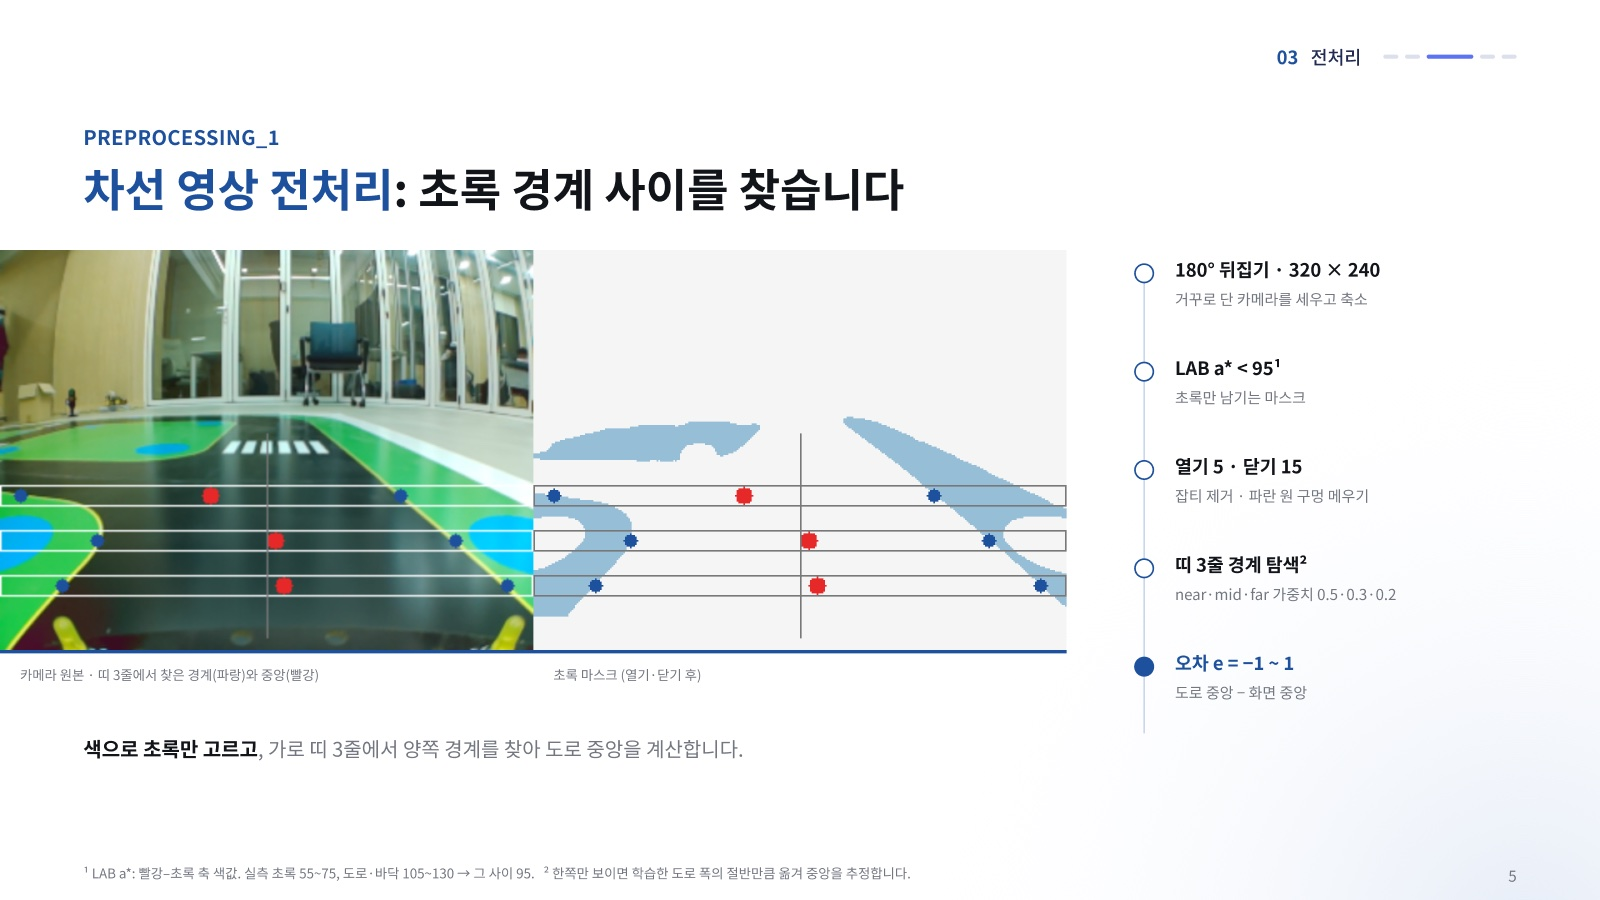
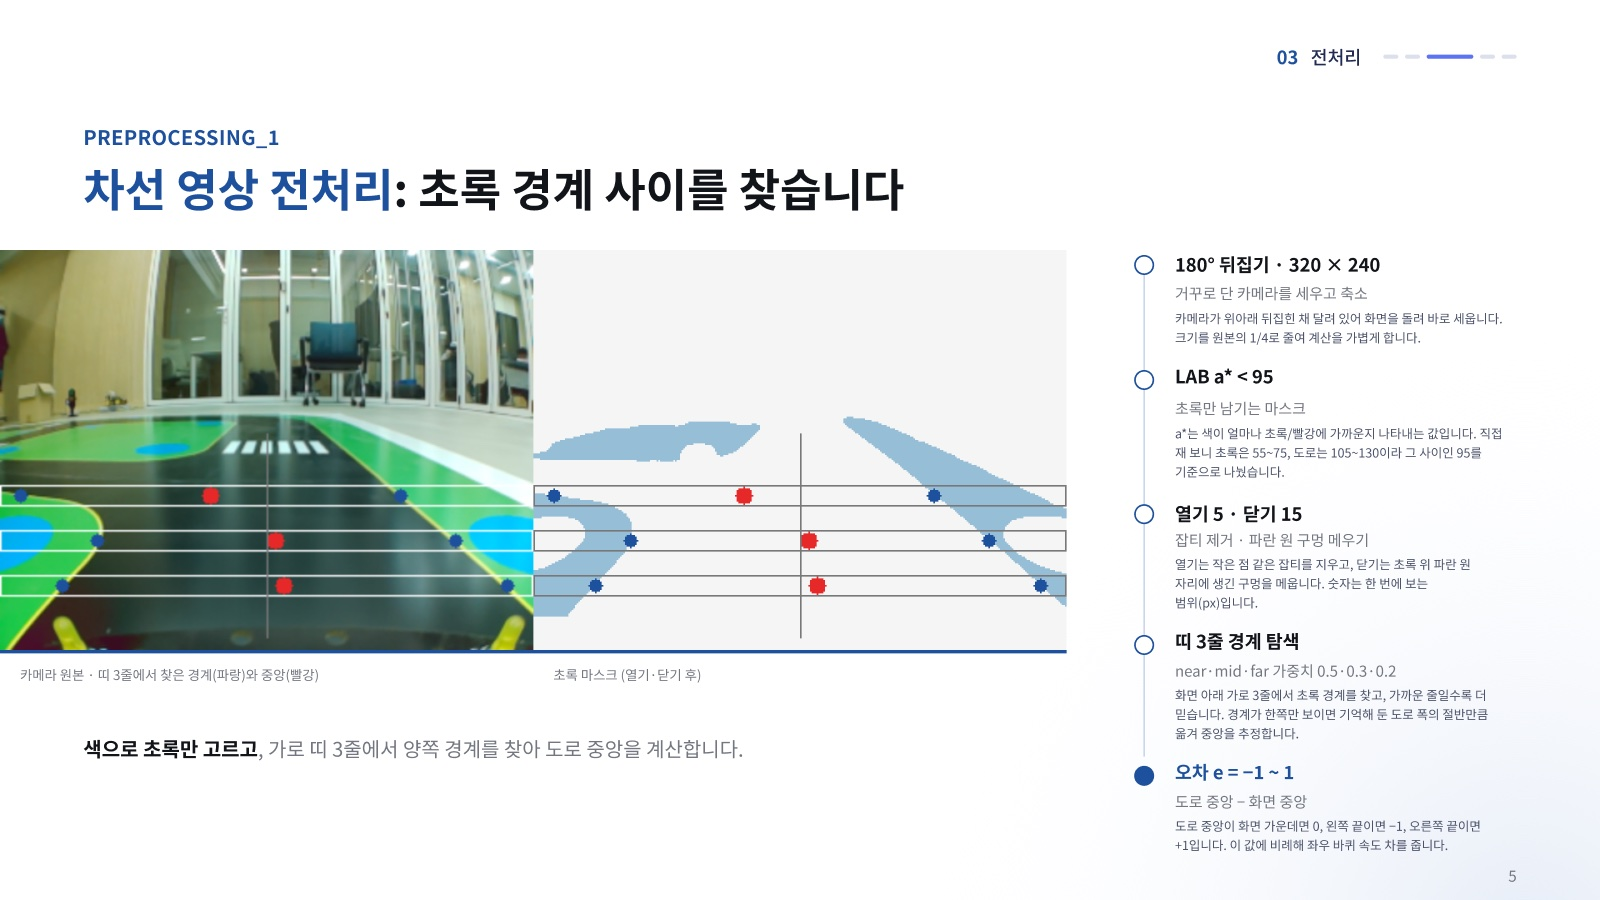
Drop duplicate-image problem from docs; refresh slides 5 and 6

Changed region(s): [[0.6875, 0.28, 0.9375, 0.9644], [0.0625, 0.9644, 0.5625, 0.9956]]

diff --git a/sign/clean_dataset.py b/sign/clean_dataset.py
@@ -1,7 +1,7 @@
 """yolo_dataset 정리: 중복 제거, 라벨 없는 이미지 분리, 연속 프레임 블록 단위로 train/val 재분할.
 
 원본 문제
-- val 이미지 대부분이 train 이미지와 바이트 단위로 같음 → val mAP가 의미 없음
+- 같은 이미지가 train/val 양쪽에 들어가면 val mAP가 부풀려짐 → 내용(md5)이 같은 파일은 하나만 남김
 - 표지판이 찍혀 있는데 라벨 파일이 없는 이미지 → 그대로 학습하면 배경으로 학습됨
 - 파일 이름이 {class}_{frame}.jpg 라서 이웃 프레임이 train/val에 섞임
 

diff --git a/README.md b/README.md
@@ -45,11 +45,11 @@ Raspberry Pi 5 한 대로 트랙을 스스로 달리고, 표지판과 신호를 
 
 ### 03 전처리
 - **차선:** 카메라 영상에서 초록 경계만 남기고, 가로 띠 3줄에서 양쪽 경계를 찾아 도로 중앙을 계산합니다.
-- **표지판 데이터:** 학습 전에 데이터 문제 네 가지(중복, 라벨 누락, 연속 프레임 섞임, right 부족)를 고쳤습니다.
+- **표지판 데이터:** 학습 전에 데이터 문제 세 가지(라벨 누락, 연속 프레임 섞임, right 부족)를 고쳤습니다.
 
 ![차선 전처리](docs/slides/05.jpg)
 
-- **초록 경계 찾기:** LAB 색공간의 a* 값이 95보다 작은 픽셀(초록)만 남깁니다.
+- **초록 경계 찾기:** a*는 색이 얼마나 초록/빨강에 가까운지 나타내는 값입니다. 실측 초록 55~75, 도로 105~130이라 그 사이인 95보다 작은 픽셀(초록)만 남깁니다.
 - **잡티 정리:** 열기·닫기 연산으로 작은 잡티를 지웁니다.
 - **도로 중앙 계산:** 가까운·중간·먼 띠 3줄에서 양쪽 경계를 찾고, 가중치 0.5·0.3·0.2로 평균해 도로 중앙을 정합니다.
 - **한쪽만 보일 때:** 띠마다 기억해 둔 평소 도로 폭으로 반대쪽 경계를 추정합니다.
@@ -58,10 +58,9 @@ Raspberry Pi 5 한 대로 트랙을 스스로 달리고, 표지판과 신호를 
 
 | 문제 | 해결 | 확인 결과 |
 |---|---|---|
-| 1. 시험용(val) 이미지 80%가 학습용(train)과 똑같음 | 파일 내용 지문(md5)으로 중복 제거 | 지금 train과 val에 겹치는 이미지 0장 |
-| 2. 표지판이 보이는데 라벨이 없는 이미지 187장 | 1차 모델이 박스를 미리 그리고, 헷갈리는 72장은 사람이 검수 | 182장에 라벨을 달아 다시 넣었고, 5장은 표지판 없음으로 판단 |
-| 3. 이웃 프레임이 train과 val에 섞임 | 같은 클래스의 연속 40장을 한 묶음으로 보고, 묶음째 나눔 | val과 거의 같은 train 이미지 0장 |
-| 4. right 표지판이 적음 | left 153장을 좌우로 뒤집어 right로 합성(train에만) | train의 right 박스 42 → 195개, val은 실제 사진만 사용 |
+| 1. 표지판이 보이는데 라벨이 없는 이미지 187장 | 1차 모델이 박스를 미리 그리고, 헷갈리는 72장은 사람이 검수 | 182장에 라벨을 달아 다시 넣었고, 5장은 표지판 없음으로 판단 |
+| 2. 이웃 프레임이 train과 val에 섞임 | 같은 클래스의 연속 40장을 한 묶음으로 보고, 묶음째 나눔 | val과 거의 같은 train 이미지 0장 |
+| 3. right 표지판이 적음 | left 153장을 좌우로 뒤집어 right로 합성(train에만) | train의 right 박스 42 → 195개, val은 실제 사진만 사용 |
 
 ![데이터셋](docs/slides/07.jpg)
 

diff --git a/docs/data-report.md b/docs/data-report.md
@@ -31,18 +31,17 @@
 
 | # | 문제 | 수치 | 영향 |
 |---|---|---|---|
-| 1 | **val 이미지가 train 이미지와 바이트 단위로 같음** | val 531장 중 **427장 (80%)** | val mAP가 부풀려짐. 이 데이터로 낸 mAP 0.95 같은 숫자는 믿을 수 없다 |
-| 2 | **표지판이 찍혀 있는데 라벨 파일이 없는 이미지** | train 185장 (red_light 42, horn 40, red_line 37, left 35, speed_20 26 …) | YOLO가 이 이미지를 "객체 없음"으로 학습해서 실제 표지판을 억누른다 |
-| 3 | 이미지 없는 라벨 | 32개 (`left_0192` 등) | 무시됨, 정리 필요 |
-| 4 | 파일 이름이 `{class}_{frame}` 연속 번호 | — | 무작위로 나누면 이웃 프레임이 train/val에 섞인다 |
-| 5 | **right 클래스 부족** | 박스 79개 (crosswalk 1201개) | left/right 혼동 위험이 가장 큰데 데이터는 가장 적다 |
-| 6 | crosswalk 과다 | 전체 박스의 약 45% | 다른 클래스보다 손실을 지배할 수 있다 |
+| 1 | **표지판이 찍혀 있는데 라벨 파일이 없는 이미지** | train 185장 (red_light 42, horn 40, red_line 37, left 35, speed_20 26 …) | YOLO가 이 이미지를 "객체 없음"으로 학습해서 실제 표지판을 억누른다 |
+| 2 | 이미지 없는 라벨 | 32개 (`left_0192` 등) | 무시됨, 정리 필요 |
+| 3 | 파일 이름이 `{class}_{frame}` 연속 번호 | — | 무작위로 나누면 이웃 프레임이 train/val에 섞인다 |
+| 4 | **right 클래스 부족** | 박스 79개 (crosswalk 1201개) | left/right 혼동 위험이 가장 큰데 데이터는 가장 적다 |
+| 5 | crosswalk 과다 | 전체 박스의 약 45% | 다른 클래스보다 손실을 지배할 수 있다 |
 
 박스 크기 중앙값은 이미지의 1~2.6%(약 60×50px)로 작은 편이다. `imgsz=320`으로 줄이면 먼 표지판을 놓칠 수 있으니 320과 640을 비교한다.
 
 ### 정리 결과 (`sign/clean_dataset.py` → `data/yolo_clean/`)
 
-- 바이트 중복을 제거해 **고유 이미지는 1592장**이다.
+- 같은 파일이 두 번 들어가지 않도록 확인했고, **고유 이미지는 1592장**이다.
 - 라벨 없는 이미지 187장은 `to_label/` 폴더로 분리했다. 다시 라벨링해야 한다.
 - 진짜 배경 이미지(`none_*`)는 빈 라벨로 넣었다.
 - 같은 클래스의 연속 프레임 40장을 한 블록으로 묶고, 블록 단위로 train/val을 나눴다.

diff --git a/HANDOFF.md b/HANDOFF.md
@@ -44,7 +44,6 @@ python -m pytest tests -q
 ## 3. 지금까지 된 것
 - `drive/`: 팀 규칙 기반 주행 코드에 YOLO 표지판 연결, 교차로 회전, 정지·신호등·서행·도착 동작을 추가했다. sim 과 테스트로 확인했다. → [docs/drive-changes.md](docs/drive-changes.md)
 - `data/yolo_clean_v2/`: 학습용 데이터셋. 고유 이미지 1779장, train 1420 + 반전 right 153, val 359.
-  - 원본 val 의 80% 가 train 과 같은 이미지였던 문제를 고쳤다.
   - 라벨이 없던 187장은 사전 라벨링한 뒤 사람이 검토했다.
   - 연속 프레임이 train/val 에 섞이지 않도록 블록 단위로 나눴다.
 - `weights/sign_baseline_ep25.pt`: 기준선 모델. 검토 전 데이터로 학습했고, 25 epoch 에서 val mAP50 0.973, mAP50-95 0.737.
